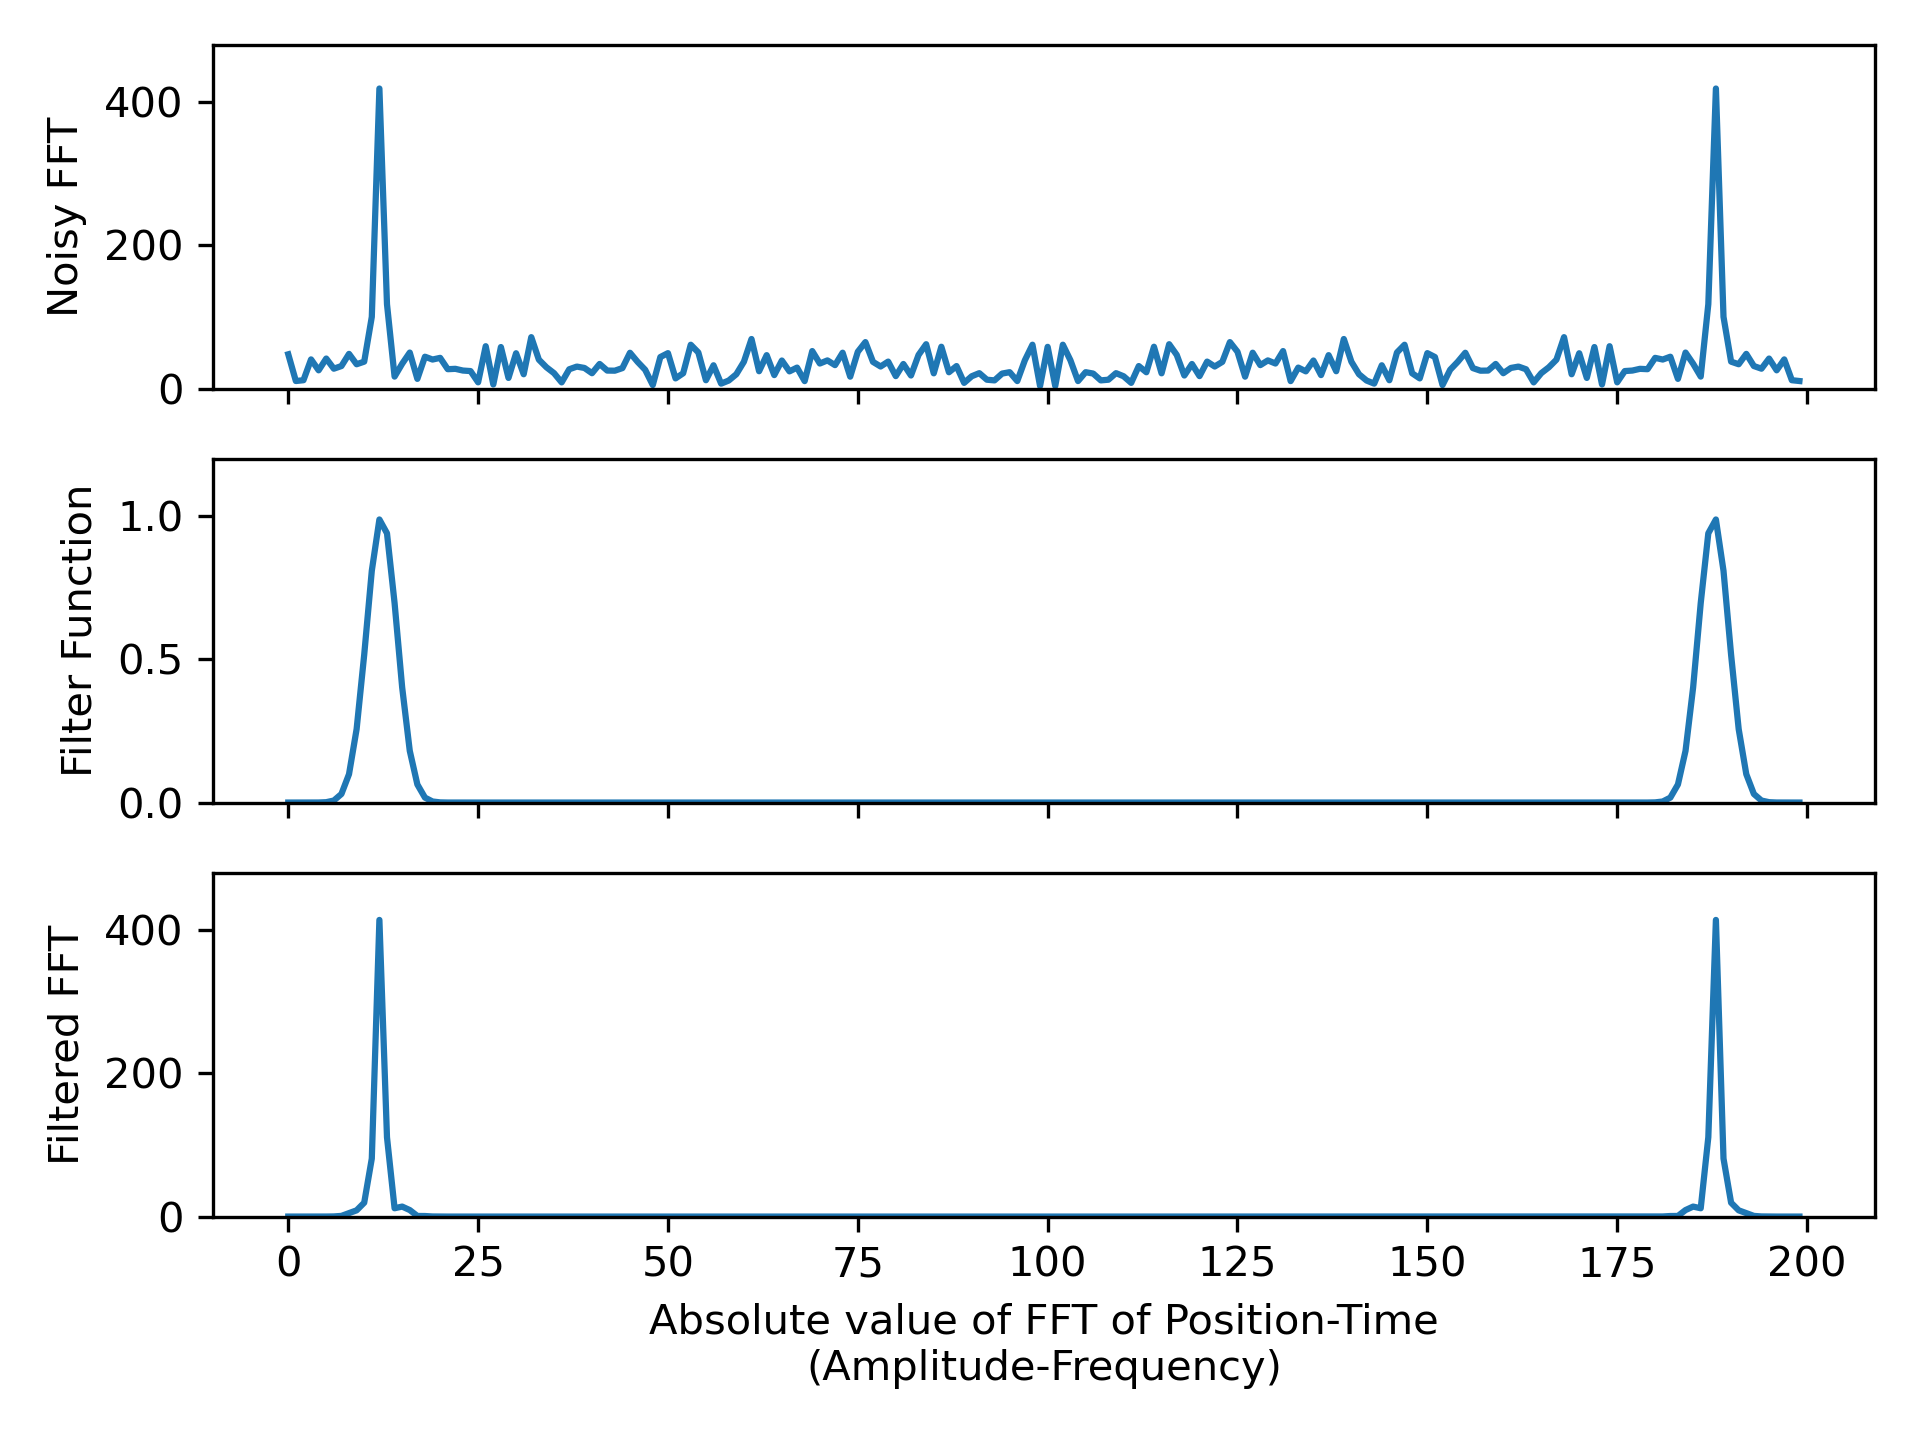
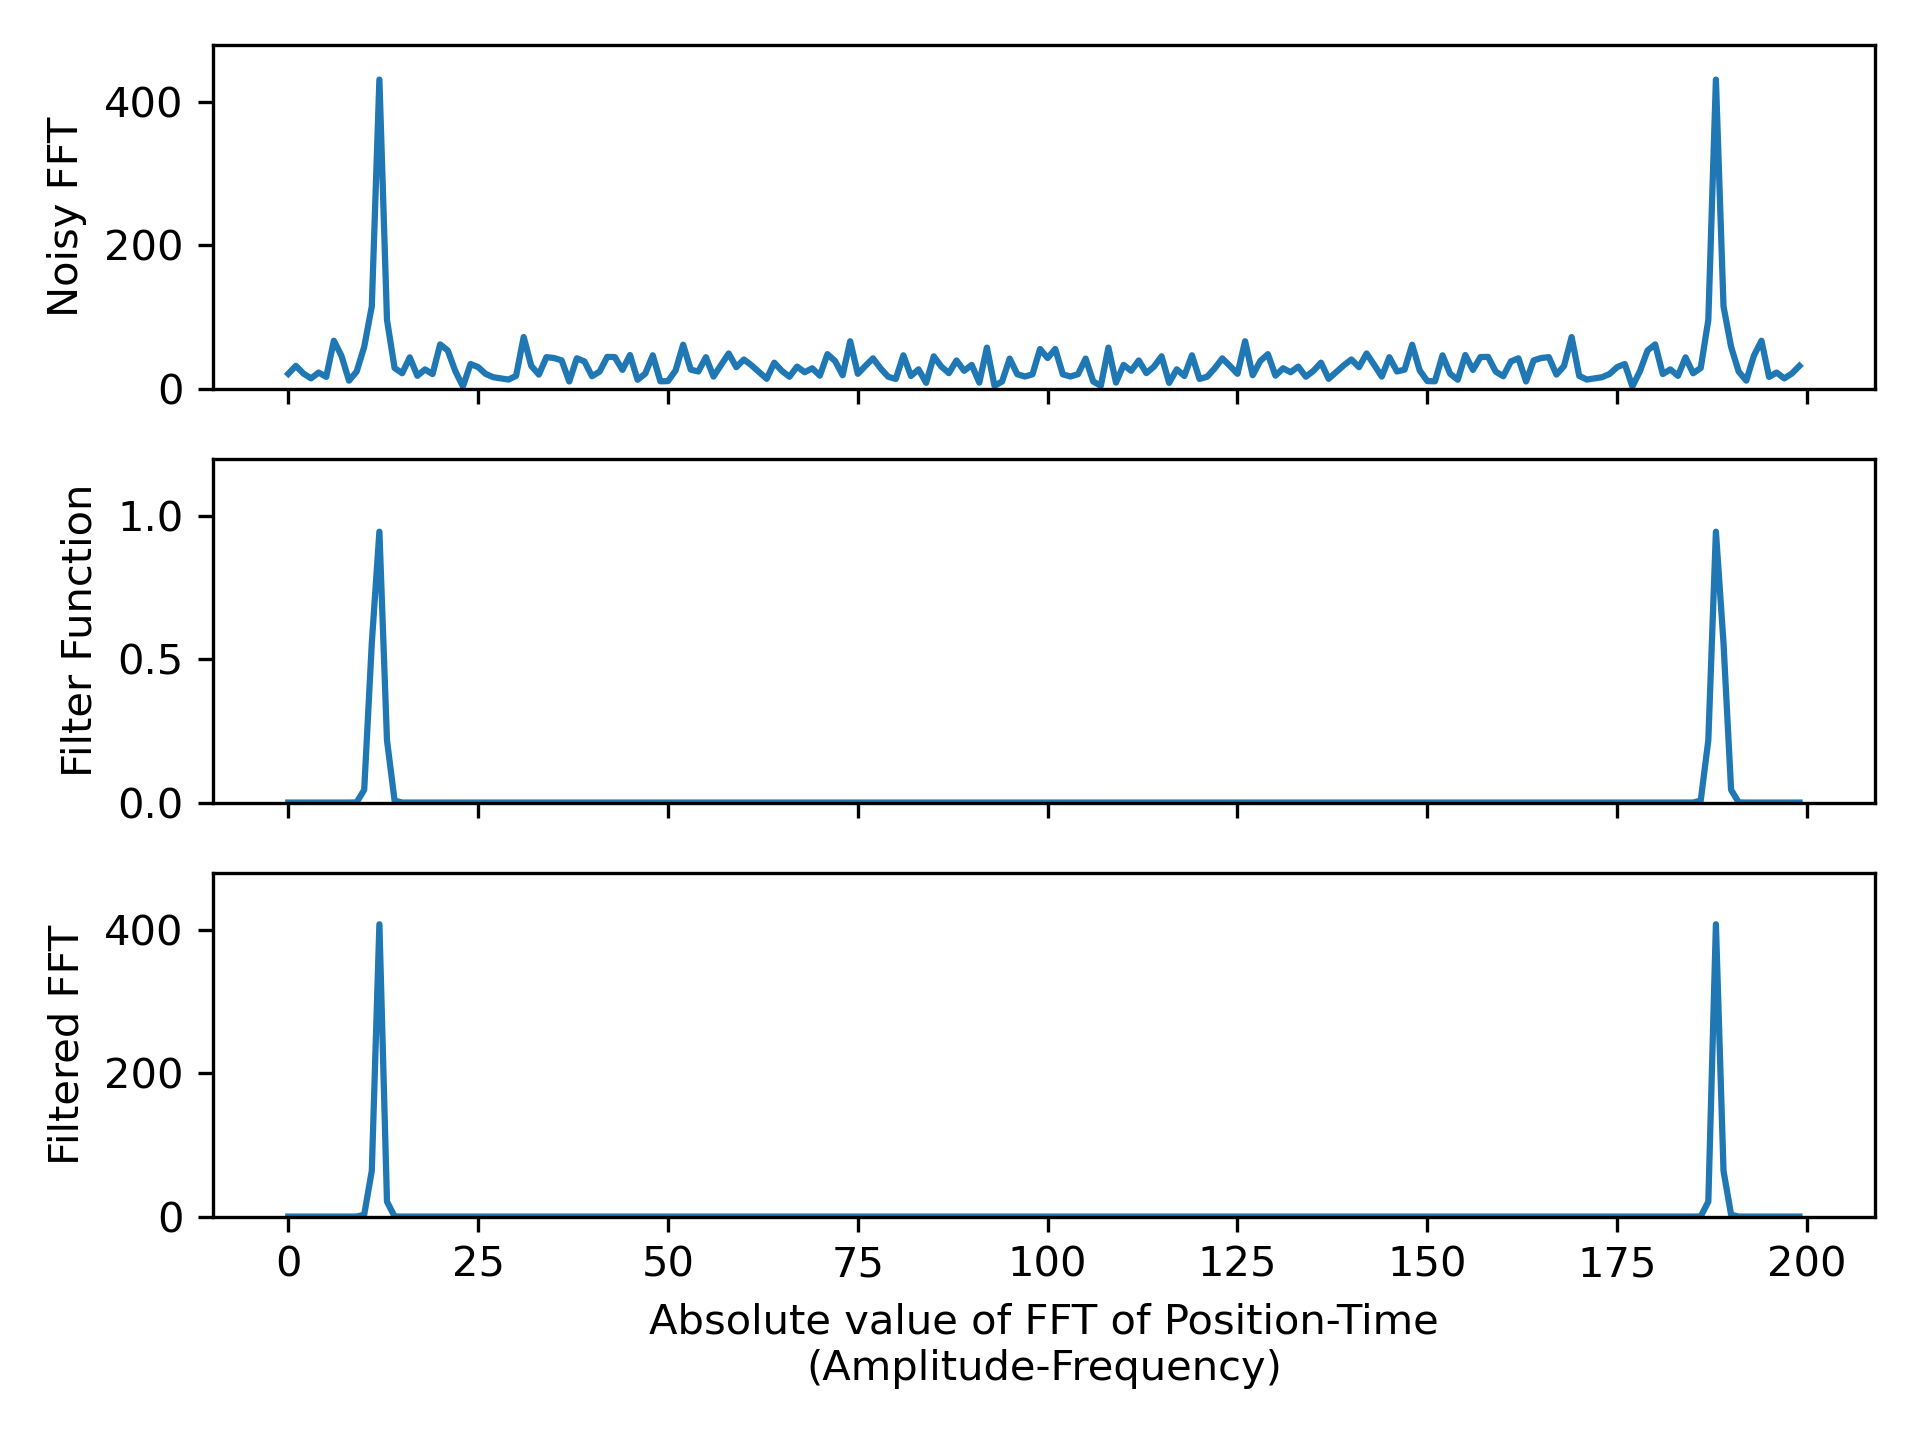
added manual filtering to pickle-example, edited PHY324-FFT to do exercise 2 (change peak center and width), added Superpose() to exercise_1, wrote exercise_3, wrote exercise_4, added exercises 3 and 4 to main

diff --git a/exercise_3.py b/exercise_3.py
@@ -1,0 +1,98 @@
+import numpy as np
+from matplotlib import pyplot as plt
+import pickle as pkl
+
+class Gaussian():
+    def __init__(self, mu, sigma):
+        self.mu = mu
+        self.sigma = sigma
+
+    def __call__(self, x):
+        exponent = -((x - self.mu) ** 2) / self.sigma
+        return np.exp(exponent)
+
+class GaussianSymmetricalAboutZero():
+    def __init__(self, mu, sigma):
+        self.Gaussian = Gaussian(mu, sigma)
+
+    def __call__(self, x):
+        return self.Gaussian(x) + self.Gaussian(-x)
+
+class Superpose():
+    def __init__(self, callables_array):
+        self.callables_array = callables_array
+
+    def __call__(self, x):
+        return np.sum(np.array([func(x) for func in self.callables_array]), axis=0)
+
+class filter():
+    def __init__(self, x, noisy_data_array, filter_callable):
+        self.x = x
+        self.noisy_data_array = noisy_data_array
+        self.filter_callable = filter_callable
+        self.filter_points = self.filter_callable(self.x)
+        self.filtered_data = self.noisy_data_array * self.filter_points
+
+class Wave():
+    def __init__(self, amplitude, omega):
+        self.amplitude = amplitude
+        self.omega = omega
+
+    def __call__(self, t):
+        return self.amplitude * np.sin(self.omega * t)
+
+
+
+
+class Exercise3():
+    def __init__(self):
+
+        with open('noisy_sine_wave', 'rb') as file:
+            self.data_from_file = pkl.load(file)
+
+        self.number_of_points = len(self.data_from_file)
+        self.spacing = 1
+
+        self.positions = self.data_from_file
+        self.times = np.arange(len(self.positions))
+
+        self.amplitudes = np.abs(np.fft.fft(self.positions))
+        self.frequencies = np.fft.fftfreq(self.number_of_points, self.spacing)
+
+        self.gaussian_filter_parameters_array = np.array([(0.059, 0.00004), (0.077, 0.00004), (0.14, 0.00004)])
+        self.symmetrical_gaussians = np.array([GaussianSymmetricalAboutZero(*params) for params in self.gaussian_filter_parameters_array])
+
+        self.filter_function = Superpose(self.symmetrical_gaussians)
+
+        self.filtered_data = filter(self.frequencies, self.amplitudes, self.filter_function).filtered_data
+
+        self.cleaned_positions = np.fft.ifft(self.filtered_data)
+
+        self.best_guess_parameters_array = np.array([(23.44, 0.059), (50.07, 0.077), (94.84, 0.143)]) * (1, 2*np.pi)# sine wave parameters in form (amplitude, frequency)
+        self.best_guess_waves = np.array([Wave(*params) for params in self.best_guess_parameters_array])
+        self.best_guess_function = Superpose(self.best_guess_waves)
+
+
+    def plot(self):
+        fig, ( (ax1, ax2), (ax3, ax4), (ax5, ax6) ) = plt.subplots(3, 2, sharex=False, sharey=False)
+
+        ax1.plot(self.times, self.positions) # position-time plot
+        ax1.plot(self.times, self.cleaned_positions, color='orange')
+        ax1.set_xlim(0, 200)
+
+        ax3.plot(self.times, self.positions - self.cleaned_positions) # residuals
+        ax3.set_xlim(0, 200)
+
+        ax5.plot(self.times, self.best_guess_function(self.times)) # best guess
+        ax5.set_xlim(0, 200)
+
+
+
+        ax2.plot(self.frequencies, self.amplitudes) # amplitude-frequency plot
+
+        ax4.plot(self.frequencies, self.filter_function(self.frequencies)) # filter function plot
+
+        ax6.plot(self.frequencies, self.filtered_data) # filtered amplitude-frequencies plot
+
+
+        plt.show()

diff --git a/exercise_4.py b/exercise_4.py
@@ -1,0 +1,59 @@
+import numpy as np
+from matplotlib import pyplot as plt
+
+class LinearModel():
+    def __init__(self, m, c):
+        self.m = m
+        self.c = c
+
+    def __call__(self, x):
+        return self.m * x + self.c
+
+class Wave():
+    def __init__(self, amplitude, omega):
+        self.amplitude = amplitude
+        self.omega = omega
+
+    def __call__(self, t):
+        return self.amplitude * np.sin(self.omega * t)
+
+class TimeDependentFrequencyWave():
+    def __init__(self, amplitude, omega_callable):
+        self.amplitude = amplitude
+        self.omega_callable = omega_callable
+
+    def __call__(self, t):
+        return self.amplitude * np.sin(self.omega_callable(t) * t)
+
+
+class Exercise4():
+    def __init__(self):
+        self.min = 0
+        self.max = 1
+        self.range = self.max - self.min
+        self.steps = 10000
+        self.spacing = self.range/self.steps
+
+        self.omega_slope = 100
+        self.omega_intercept = (2*np.pi)/self.steps
+        self.amplitude = 1
+
+        self.omega = LinearModel(self.omega_slope, self.omega_intercept)
+
+        wave = TimeDependentFrequencyWave(self.amplitude, self.omega)
+
+        self.times = np.linspace(self.min, self.max, self.steps)
+        self.position_space = wave(self.times)
+
+        self.frequencies = np.fft.fftfreq(self.steps, self.spacing)
+        self.amplitudes = np.fft.fft(self.position_space)
+
+    def plot(self):
+        fig, (ax1, ax2) = plt.subplots(2, 1)
+
+        ax1.plot(self.times, self.position_space)
+
+        ax2.plot(self.frequencies, np.abs(self.amplitudes))
+        ax2.set_xlim(-100, 100)
+
+        plt.show()

diff --git a/exercise_1.py b/exercise_1.py
@@ -9,7 +9,14 @@ class Wave():
     def __call__(self, t):
         return self.amplitude * np.sin(self.omega * t)
 
-class Exercise_1():
+class Superpose():
+    def __init__(self, callables_array):
+        self.callables_array = callables_array
+
+    def __call__(self, x):
+        return np.sum(np.array([func(x) for func in self.callables_array]), axis=0)
+
+class Exercise1():
     def __init__(self):
         self.lower_limit = 0
         self.upper_limit = 1
@@ -22,7 +29,8 @@ class Exercise_1():
         self.waves_array = np.array([Wave(amplitude, omega) for (amplitude, omega) in self.parameters_array]) # np array of (callable) wave objects
 
         self.times = np.linspace(self.lower_limit, self.upper_limit, self.steps)
-        self.position_space = np.sum(np.array([func(self.times) for func in self.waves_array]), axis=0)
+        superpose_waves = Superpose(self.waves_array)
+        self.position_space = superpose_waves(self.times)
 
         self.frequencies = np.fft.fftfreq(self.steps, self.spacing)
         self.frequency_space = np.abs(np.fft.fft(self.position_space))

diff --git a/pickle-example.py b/pickle-example.py
@@ -21,14 +21,38 @@ object (an array) saved so it is pretty easy
 
 import matplotlib.pyplot as plt
 
-plt.plot(data_from_file)
-xmax=300
-plt.xlim(0,xmax)
-plt.show()
+# plt.plot(data_from_file)
+# xmax=len(data_from_file)
+# plt.xlim(0,xmax)
+# plt.show()
 
-number=len(data_from_file)
-message="There are " + \
-        str(number) + \
-        " data points in total, only drawing the first " + \
-        str(xmax)
-print(message)
+# number=len(data_from_file)
+# message="There are " + \
+#         str(number) + \
+#         " data points in total, only drawing the first " + \
+#         str(xmax)
+# print(message)
+
+
+
+
+
+"""
+added by Kyle:
+"""
+
+import numpy as np
+
+times = np.arange(0, len(data_from_file))
+fft = np.abs(np.fft.fft(data_from_file))
+freqs = np.fft.fftfreq(len(data_from_file), 1)
+
+# plt.plot(freqs, fft)
+# plt.show()
+
+
+for i,x in enumerate(fft):
+    if x > 2000:
+        print(freqs[i], x, i)
+
+

diff --git a/PHY324-FFT.py b/PHY324-FFT.py
@@ -96,8 +96,8 @@ in your report so you don'times have to cut-and-paste
 
 M=len(z2)
 freq=np.arange(M)  # frequency values, like time is the time values
-width=8  # width=2*sigma**2 where sigma is the standard deviation
-peak=12.3    # ideal value is approximately N/T1
+width=1 # 8  # width=2*sigma**2 where sigma is the standard deviation
+peak=N/T1 # 12.3    # ideal value is approximately N/T1
 
 filter_function=(np.exp(-(freq-peak)**2/width)+np.exp(-(freq+peak-M)**2/width))
 z_filtered=z2*filter_function
@@ -177,7 +177,7 @@ fig.subplots_adjust(hspace=0)
 ax1.set_ylim(-13,13)
 ax1.set_ylabel('Original Data')
 ax2.set_ylabel('Filtered Data')
-ax3.set_ylabel('Ideal Result')
+ax3.set_ylabel('Residuals')
 ax3.set_xlabel('Position-Time')
 
 if(save): plt.savefig('SingleWaveAndNoiseFFT.png',dpi=mydpi)

diff --git a/main.py b/main.py
@@ -1,4 +1,12 @@
 import exercise_1
+import exercise_3
+import exercise_4
 
-exercise_1 = exercise_1.Exercise_1()
-exercise_1.plot()
+exercise_1 = exercise_1.Exercise1()
+# exercise_1.plot()
+
+exercise_3 = exercise_3.Exercise3()
+# exercise_3.plot()
+
+exercise_4 = exercise_4.Exercise4()
+exercise_4.plot()
